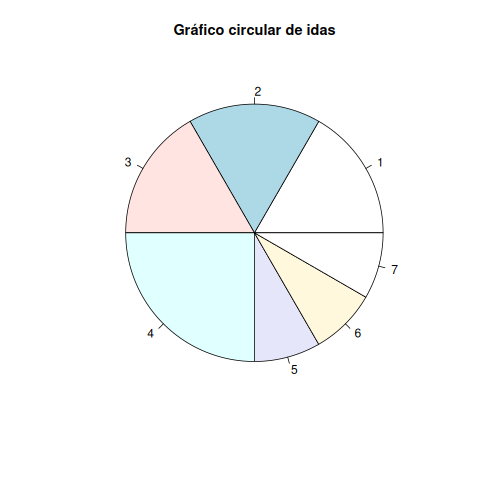
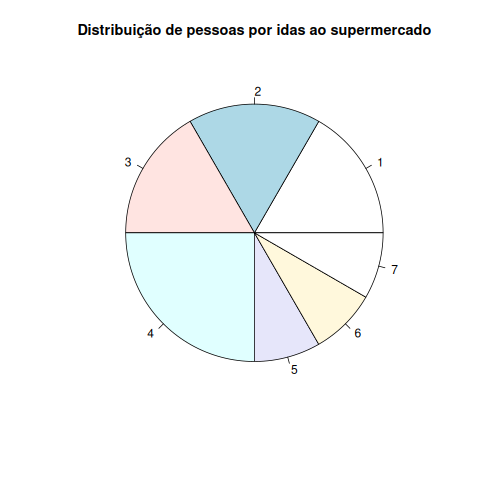
v0.0

Changed region(s): [[0.1562, 0.0312, 0.9062, 0.0938]]

diff --git a/a2edR.tex b/a2edR.tex
@@ -2,15 +2,18 @@
 \usepackage[utf8]{inputenc}
 \usepackage[portuguese]{babel}
 \usepackage[T1]{fontenc}
+\usepackage[margin=2cm]{geometry}
 \usepackage{graphicx}
 \usepackage{amsmath}
 \usepackage{csquotes}
 \usepackage{enumitem}
 \usepackage{listings}
-\usepackage{xcolor}
+\usepackage{listing}
+\usepackage[svgnames]{xcolor}
 \usepackage{eurosym}
-\usepackage{hyperref}
+\usepackage{csvsimple}
 \usepackage{biblatex}
+\usepackage{hyperref}
 \usepackage{attachfile2}
 
 \author{Carlos Pinto Machado
@@ -38,7 +41,7 @@
 	breaklines=true,
 	breakatwhitespace=false,
 	keywordstyle=\color{blue},
-	commentstyle=\color{dkgreen},
+	commentstyle=\color{DarkGreen},
 	escapeinside={\%*}{*)},
 	literate=
 		{á}{{\'a}}1 {é}{{\'e}}1 {í}{{\'i}}1 {ó}{{\'o}}1 {ú}{{\'u}}1
@@ -59,6 +62,8 @@
 		{º}{\textdegree}1
 }
 
+\renewcommand*{\listlistingname}{Lista de Listagens}
+
 \begin{document}
 \maketitle
 \tableofcontents
@@ -69,13 +74,20 @@
 
 \paragraph{} No decorrer da AULA AbERTA - "Introdução à Estatística:
 Estatística Descritiva com R"\cite{AulaAbertaIntroducaoEstatistica2017}, o
-recurso formativo era um guia homónino
+recurso formativo era um guia homónimo
 \cite{OliveiraAulaAberta2017}, no qual existem
 exercícios propostos. O presente documento pretende documentar soluções para o
 mesmo com recurso à Bibliografia recomendada do mesmo
 documento\cite{OliveiraEstatisticaDescritiva2011}.
 
-\paragraph{} Em anexo, estão os recursos em zip:
+\section*{Notas de Implementação}\addcontentsline{toc}{section}{Notas de Implementação}
+
+\paragraph{} Para carregamento dos dados, foram utilizados ficheiros csv que
+criam objectos dataframe. Esta abordagem parece ser mais razoável, dado que
+podemos ter ficheiros com milhares de amostras.
+
+\paragraph{} Em anexo, estão os recursos, código e datasets, em zip:
+
 \attachfile[icon=Paperclip]{recursos.zip}
 
 \clearpage
@@ -101,26 +113,53 @@ documento\cite{OliveiraEstatisticaDescritiva2011}.
 		4& 2&0.050\\
 		\hline
 	\end{tabular}
+	\caption{Exercício 3.1 - Frequências simples e relativas de irmãos}
+	\label{tab:3.1}
 \end{table}
-\lstinputlisting{./recursos/ex3_1.R}
+\lstinputlisting[caption={ex3\_1.R}]{./recursos/ex3_1.R}
 
 \subsection{Visualização de dados usando o R}
 
 \begin{figure}[h!]
 	\centering
-	\includegraphics[width=0.7\textwidth]{./recursos/ex3_2.png}
+	\includegraphics[width=0.4\textwidth]{./recursos/ex3_2.png}
+	\caption{Exercício 3.2 - Gráfico circular de idas ao supermercado}
 \end{figure}
-\lstinputlisting{./recursos/ex3_2.R}
+\lstinputlisting[caption={ex3\_2.R}]{./recursos/ex3_2.R}
 
 \clearpage
-
-\subsection{Redução de dados: média aritmética e desvio-padrão}
+\subsection{Redução de dados: média aritmética e desvio padrão}
 
 \begin{align*}
 	\overline{x} &= 1.2\\
-	s &= 1.06698713134767
+	s &\approx 1.067 \\
+	\frac{s}{\overline{x}} &\approx 0.889 = 88.9 \%
 \end{align*}
-\lstinputlisting{./recursos/ex3_3.R}
+
+\paragraph{} A média permite-nos localizar a tendência central em redor dos
+1.2 irmãos, e o desvio padrão de aproximadamente 1.067, permite-nos verificar
+a dispersão associada. Sendo que o quociente do desvio padrão para com a média
+é relativamente alto, permite-nos concluir que o esbatimento da curva é
+rápido.
+
+\paragraph{} Podemos verificar no gráfico \ref{fig:ex3_3} esse facto. Aparecem
+também duas linhas a vermelho, demonstrando o conjunto de amostras no
+intervalo com centro na média e raio de cumprimento do desvio
+padrão($\overline{x} \pm s$). Data a natureza discreta da amostra fez-se uns
+ajustes, sendo o intervalo dado por:
+$[\lfloor \overline{x} - s \rfloor, \lceil \overline{x} + s \rceil]$.
+
+\vspace{0.5cm}
+
+\lstinputlisting[caption={ex3\_3.R}]{./recursos/ex3_3.R}
+
+
+\begin{figure}[h!]
+	\centering
+	\includegraphics[width=0.4\textwidth]{./recursos/ex3_3.png}
+	\caption{Exercício da secção 3.3 - Distribuição de irmãos por pessoa}
+	\label{fig:ex3_3}
+\end{figure}
 
 \clearpage
 \section{Exercícios}
@@ -130,14 +169,14 @@ documento\cite{OliveiraEstatisticaDescritiva2011}.
 	\item \addcontentsline{toc}{subsection}{4.1}
 		\begin{enumerate}[label=\alph*)]
 		\item $\overline{x} = 19.41667$\hfill
-			\lstinputlisting{./recursos/ex4_1a.R}
+			\lstinputlisting[caption={ex4\_1a.R}]{./recursos/ex4_1a.R}
 		\item $s = 1.378954$\hfill
-			\lstinputlisting{./recursos/ex4_1b.R}
+			\lstinputlisting[caption={ex4\_1b.R}]{./recursos/ex4_1b.R}
 		\end{enumerate}
 	\item \addcontentsline{toc}{subsection}{4.2}\hfill
 		\begin{enumerate}[label=\alph*)]
 		\item $N = 60$\hfill
-			\lstinputlisting{./recursos/ex4_2a.R}
+			\lstinputlisting[caption={ex4\_2a.R}]{./recursos/ex4_2a.R}
 		\item \hfill
 			\begin{table}[h!]
 				\centering
@@ -158,51 +197,102 @@ documento\cite{OliveiraEstatisticaDescritiva2011}.
 					1500&12&60&0.2000000\\
 					\hline
 				\end{tabular}
+				\caption{Tabela de 4.2 b)}
 			\end{table}
-			\lstinputlisting{./recursos/ex4_2b.R}
+			\lstinputlisting[caption={ex4\_2b.R}]{./recursos/ex4_2b.R}
 		\item \hfill
 			\begin{align*}
 				\overline{x} &= 1260 \\
 				s &= 54.5552122756449
 			\end{align*}
-			\lstinputlisting{./recursos/ex4_2c.R}
-		\clearpage
+			\lstinputlisting[caption={ex4\_2c.R}]{./recursos/ex4_2c.R}
+			\clearpage
 		\item \hfill
 			\begin{figure}[h!]
 				\centering
-				\includegraphics[width=0.7\textwidth]{./recursos/ex4_2d.png}
+				\includegraphics[width=0.4\textwidth]{./recursos/ex4_2d.png}
+				\caption{Exercício 4.2 d) - Distribuição dos salários por nº de colaboradores}
 			\end{figure}
-			\lstinputlisting{./recursos/ex4_2d.R}
+			\lstinputlisting[caption={ex4\_2d.R}]{./recursos/ex4_2d.R}
 		\end{enumerate}
-	\item \addcontentsline{toc}{subsection}{4.3}\hfill
+		\item \addcontentsline{toc}{subsection}{4.3}\hfill
 		\begin{enumerate}[label=\alph*)]
 		\item $\overline{x} = 64.26667$\hfill
-			\lstinputlisting{./recursos/ex4_3a.R}
+			\lstinputlisting[caption={ex4\_3a.R}]{./recursos/ex4_3a.R}
 		\item $s = 9.676678$\hfill
-			\lstinputlisting{./recursos/ex4_3b.R}
+			\lstinputlisting[caption={ex4\_3b.R}]{./recursos/ex4_3b.R}
 		\end{enumerate}
-	\clearpage
+		\clearpage
 	\item \addcontentsline{toc}{subsection}{4.4}\hfill
 		\begin{enumerate}[label=\alph*)]
 		\item \hfill
 			\begin{figure}[h!]
 				\centering
-				\includegraphics[width=0.7\textwidth]{./recursos/ex4_4a.png}
+				\includegraphics[width=0.4\textwidth]{./recursos/ex4_4a.png}
+				\caption{Exercício 4.4 a) - Taxa de Inflação por país}
 			\end{figure}
-			\lstinputlisting{./recursos/ex4_4a.R}
+			\lstinputlisting[caption={ex4\_4a.R}]{./recursos/ex4_4a.R}
 		\clearpage
 		\item \hfill
 			\begin{figure}[h!]
 				\centering
-				\includegraphics[width=0.7\textwidth]{./recursos/ex4_4b.png}
+				\includegraphics[width=0.4\textwidth]{./recursos/ex4_4b.png}
+				\caption{Exercício 4.4 b) - Taxa de inflação por país(Gráfico
+				circular)}
 			\end{figure}
-			\lstinputlisting{./recursos/ex4_4b.R}
+			\lstinputlisting[caption={ex4\_4b.R}]{./recursos/ex4_4b.R}
 		\item $\overline{x} = 1.533333$\hfill
-			\lstinputlisting{./recursos/ex4_4c.R}
+			\lstinputlisting[caption={ex4\_4c.R}]{./recursos/ex4_4c.R}
 		\end{enumerate}
 \end{enumerate}
 
 \clearpage
 \printbibliography[heading=bibintoc,title={Bibliografia}]
+\listoftables\addcontentsline{toc}{section}{Lista de Tabelas}
+\listoffigures\addcontentsline{toc}{section}{Lista de Figuras}
+\listoflistings\addcontentsline{toc}{section}{Lista de Listagens}
+
+\clearpage
+\appendix
+
+\section{Datasets}
+
+\begin{table}[ht!]
+	\begin{minipage}[t]{0.4\textwidth}
+		\centering
+		\csvautotabular{./recursos/dataset/4_1.csv}
+		\caption{Autonomia(h) de smartphones\\ Ficheiro: 4\_1.csv}
+	\end{minipage}\quad
+	\begin{minipage}[t]{0.5\textwidth}
+		\centering
+		\csvautotabular{./recursos/dataset/4_2.csv}
+		\caption{Salários (\euro) dos colaboradores\\ Ficheiro: 4\_2.csv}
+	\end{minipage}
+\end{table}
+\begin{table}[ht!]
+	\begin{minipage}[t]{0.4\textwidth}
+		\centering
+		\csvautotabular{./recursos/dataset/4_3.csv}
+		\caption{Amostra - Peso(Kg) de alunos\\ Ficheiro: 4\_3.csv}
+	\end{minipage}\quad
+	\begin{minipage}[t]{0.4\textwidth}
+		\centering
+		\csvautotabular{./recursos/dataset/4_4.csv}
+		\caption{Taxa de inflação por países \\ Ficheiro: 4\_4.csv}
+	\end{minipage}
+\end{table}
+\begin{table}[t]
+	\begin{minipage}[t]{0.4\textwidth}
+		\centering
+		\csvautotabular{./recursos/dataset/idas.csv}
+		\caption{Idas ao supermercado\\ Ficheiro: idas.csv}
+	\end{minipage}
+	\begin{minipage}[t]{0.4\textwidth}
+		\centering
+		\csvautotabular{./recursos/dataset/irmaos.csv}
+		\caption{Amostra - nº de irmãos\\ Ficheiro: irmaos.csv}
+	\end{minipage}
+\end{table}
+
 
 \end{document}

diff --git a/CHANGELOG.md b/CHANGELOG.md
@@ -1,0 +1,37 @@
+# Changelog
+
+All notable changes to this project will be documented in this file.
+
+The format is based on [Keep a Changelog](https://keepachangelog.com/en/1.0.0/),
+and this project adheres to [Semantic Versioning](https://semver.org/spec/v2.0.0.html).
+
+## [Unreleased]
+
+### Added
+- Exercício 3.3
+
+### Changed
+- Ajuste no Makefile
+- Ajustes no layout
+
+## [0.1.0]
+
+### Added
+
+- Script de lint no Makefile com recurso ao pacote lintr
+- Correcções na bibliografia
+- Normalizar legendas de elementos flutuantes
+- Correcção no exercício 3.2
+- Adicionar CHANGELOG.md
+
+
+## [0.0.0]
+
+### Added
+
+- Exercícios propostos do guia da Aula Aberta, salvo resposta completa no
+  exercício da secção 3.3
+
+[unreleased]: https://github.com/cpmachado/a2edR/compare/v0.1.0...HEAD
+[0.1.0]: https://github.com/cpmachado/a2edR/releases/tag/v0.0.0
+[0.0.0]: https://github.com/cpmachado/a2edR/releases/tag/v0.0.0
